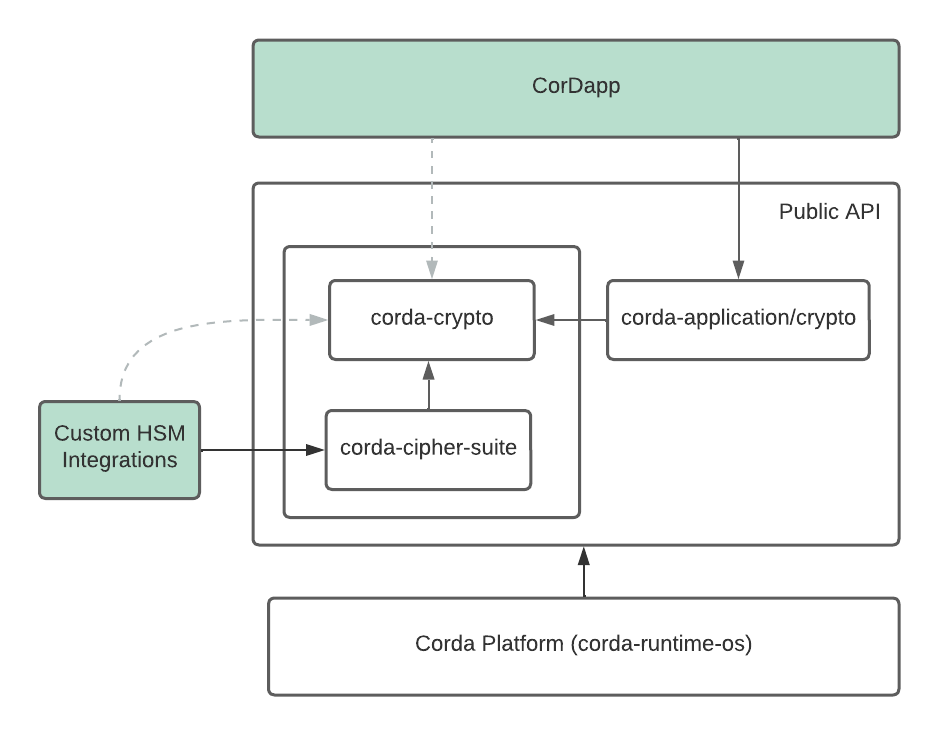
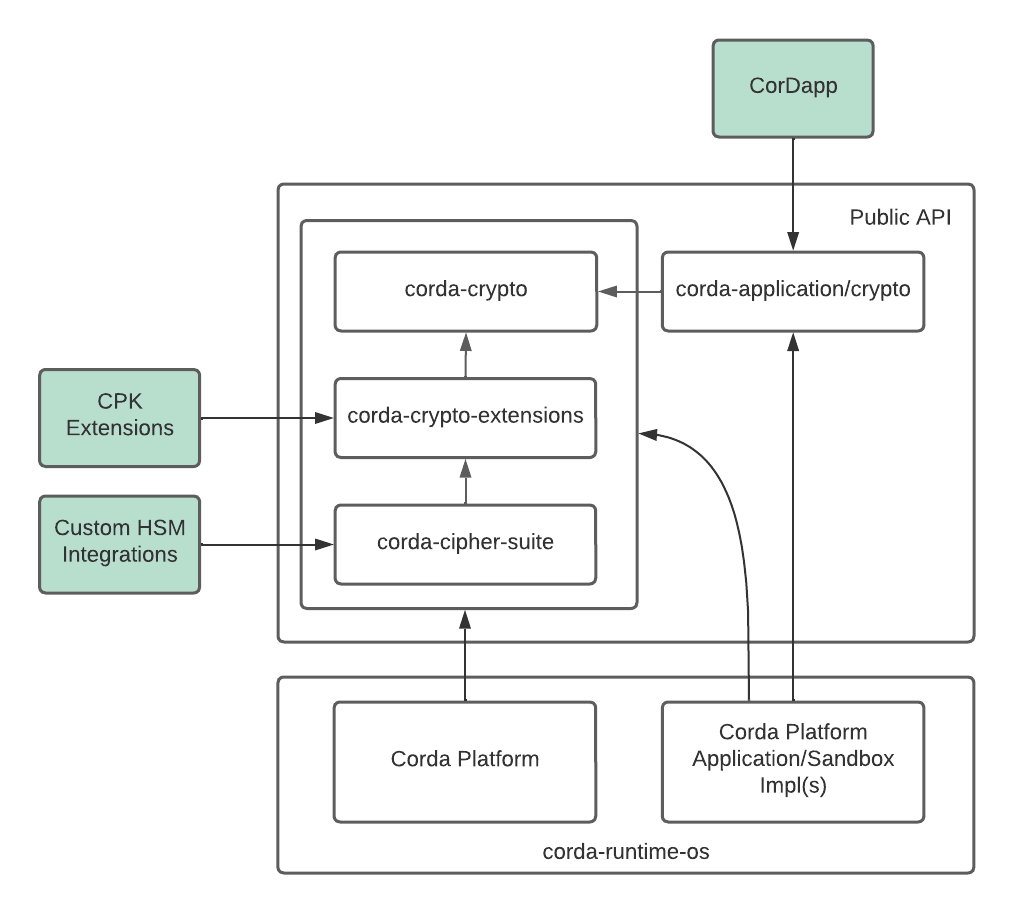
Updated API dependencies diagram and added crypto-extensions

Changed region(s): [[0.0309, 0.0299, 0.9872, 0.9578]]

diff --git a/content/en/platform/corda/5.0-dev-preview-2/developing/api/api-crypto.md b/content/en/platform/corda/5.0-dev-preview-2/developing/api/api-crypto.md
@@ -11,8 +11,8 @@ section_menu: corda-5-dev-preview
 
 # Overview
 
-The `corda-crypto` module as a part of the `Corda Crypto API` consisting of several module. The module defines low level artifacts such as classes which are use as method arguments and return values, exceptions, constants, and helper functions that are used by other parts of the Corda Platform as well as a CorDapp.
+The `corda-crypto` module as a part of the `Corda Crypto API` consisting of several modules. The module defines low level artifacts such as classes which are use as method arguments and return values, exceptions, constants, and helper functions that are used by other parts of the Corda Platform as well as a CorDapp.
 
-The dependencies between Corda Platform and CorDapp are shown in the diagram bellow. 
+The dependencies on Corda Crypto API are shown in the diagram bellow. 
 
 ![Public Crypto API Usage](imgs/public-crypto-api-usage.png)

diff --git a/content/en/platform/corda/5.0-dev-preview-2/developing/api/api-cipher-suite.md b/content/en/platform/corda/5.0-dev-preview-2/developing/api/api-cipher-suite.md
@@ -3,8 +3,24 @@ date: '2021-04-24T00:00:00Z'
 title: "Cipher-suite"
 menu:
   corda-5-dev-preview:
-    identifier: corda-5-dev-preview-api-Cipher-suite
+    identifier: corda-5-dev-preview-api-cipher-suite
     parent: corda-5-dev-preview-api
     weight: 3000
 section_menu: corda-5-dev-preview
 ---
+
+
+
+**# Overview**
+
+
+
+The `corda-cipher-suite` module as a part of the `Corda Crypto API` consisting of several modules. The module defines code artifacts that are required to implement integrations with HSMs beyond supported by R3. The module is used by Corda Platform.
+
+
+
+The dependencies on Corda Crypto API are shown in the diagram bellow. 
+
+
+
+![Public Crypto API Usage](imgs/public-crypto-api-usage.png)

diff --git a/content/en/platform/corda/5.0-dev-preview-2/developing/api/api-crypto-extensions.md b/content/en/platform/corda/5.0-dev-preview-2/developing/api/api-crypto-extensions.md
@@ -1,0 +1,18 @@
+---
+date: '2021-04-24T00:00:00Z'
+title: "crypto-extensions"
+menu:
+  corda-5-dev-preview:
+    identifier: corda-5-dev-preview-api-crypto-extensions
+    parent: corda-5-dev-preview-api
+    weight: 4000
+section_menu: corda-5-dev-preview
+---
+
+# Overview
+
+The `corda-crypto` module as a part of the `Corda Crypto API` consisting of several modules. The module defines low level services that can be used to extend functionality of the Corda Crypto Library by implemnting them in a CPK.
+
+The dependencies on Corda Crypto API are shown in the diagram bellow. 
+
+![Public Crypto API Usage](imgs/public-crypto-api-usage.png)
